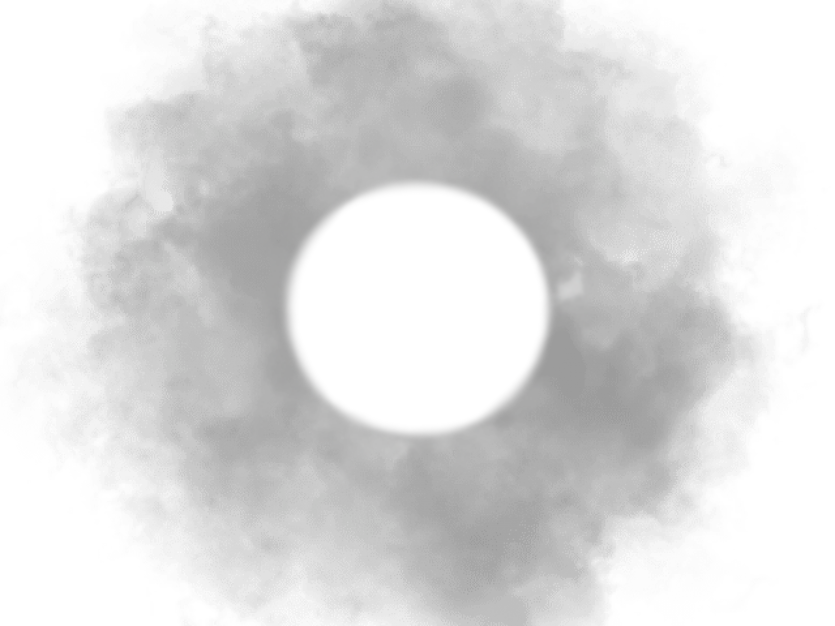
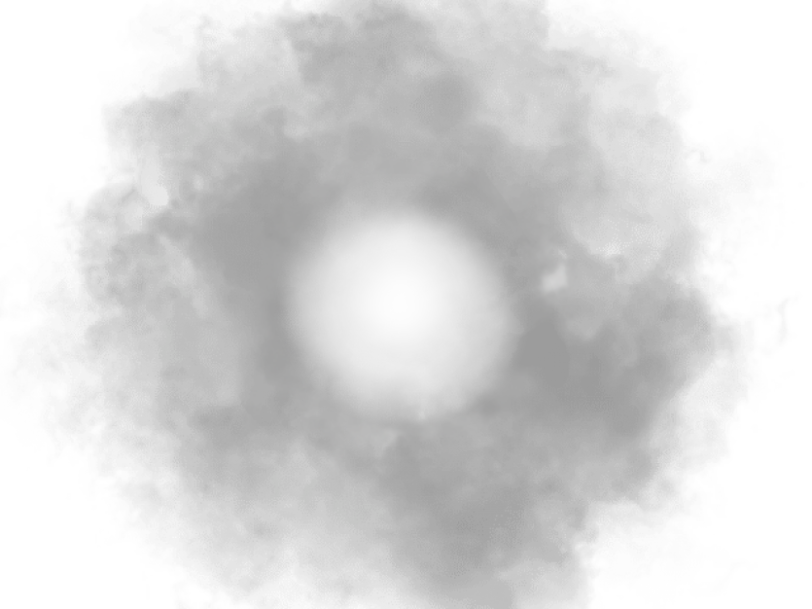
power ups done
shop title changed power ups fully functional

Changed region(s): [[0.3387, 0.2808, 0.6773, 0.7176]]

diff --git a/core/src/main/java/com/engteam14/yorkpirates/GameScreen.java b/core/src/main/java/com/engteam14/yorkpirates/GameScreen.java
@@ -39,6 +39,10 @@ public class GameScreen extends ScreenAdapter {
     public Array<College> colleges;
     public Array<Boat> boats;
     public Array<Projectile> projectiles;
+    // Power Ups
+    public Array<PowerUp> powerUps;
+    public Boolean immunity = false;
+    private float immunityTimer = 0f;
 
     // Sound
     public Music music;
@@ -115,6 +119,36 @@ public class GameScreen extends ScreenAdapter {
         followPos = new Vector3(player.x, player.y, 0f);
         game.camera.position.lerp(new Vector3(760, 510, 0f), 1f);
 
+        // Initialise Power Ups
+        powerUps = new Array<>();
+        PowerUp newPowerUp;
+        Array<Texture> powerUpSprites = new Array<>();
+
+        // Add damage boost
+        powerUpSprites.add(new Texture("damageBoost.png"));
+        newPowerUp = new PowerUp(powerUpSprites, 1, 1500, 700, 20 , 32, enemyTeam, "DamageBoost");
+        powerUps.add(newPowerUp);
+        powerUpSprites.clear();
+        // Add Max Health
+        powerUpSprites.add(new Texture("maxHealthUp.png"));
+        newPowerUp = new PowerUp(powerUpSprites, 1, 300, 1000, 20 , 32, enemyTeam, "MaxHealth");
+        powerUps.add(newPowerUp);
+        powerUpSprites.clear();
+        // Add Immunity
+        powerUpSprites.add(new Texture("immunity.png"));
+        newPowerUp = new PowerUp(powerUpSprites, 1, 900, 1500, 20 , 32, enemyTeam, "Immunity");
+        powerUps.add(newPowerUp);
+        powerUpSprites.clear();
+        // Add Heal
+        powerUpSprites.add(new Texture("currentHealthUp.png"));
+        newPowerUp = new PowerUp(powerUpSprites, 1, 1000, 2000, 20 , 32, enemyTeam, "Heal");
+        powerUps.add(newPowerUp);
+        powerUpSprites.clear();
+        // Add Speed
+        powerUpSprites.add(new Texture("speed.png"));
+        newPowerUp = new PowerUp(powerUpSprites, 1, 600, 750, 20 , 32, enemyTeam, "SpeedBoost");
+        powerUps.add(newPowerUp);
+        powerUpSprites.clear();
 
 
         // Initialise tilemap
@@ -189,7 +223,7 @@ public class GameScreen extends ScreenAdapter {
         projectiles = new Array<>();
 
         // Load the fog texture
-        fog = new Sprite(new Texture(Gdx.files.internal("fog.png")));
+        fog = new Sprite(new Texture(Gdx.files.internal("fog(1).png")));
         
         startTimeStamp = Instant.now().getEpochSecond();
 
@@ -251,6 +285,27 @@ public class GameScreen extends ScreenAdapter {
           }
           else{assert true;}
         }
+        // Draw PowerUps
+        for(int i = 0; i<powerUps.size; i++){
+            if(powerUps.get(i).collides(game.batch, player)==false){
+                powerUps.get(i).draw(game.batch, 0);
+            }
+            else{
+                if(powerUps.get(i).power == "DamageBoost"){player.addDamage();}
+                else if(powerUps.get(i).power == "MaxHealth"){player.addHealth();}
+                else if(powerUps.get(i).power == "Heal"){player.heal(75);}
+                else if(powerUps.get(i).power == "SpeedBoost"){player.addSpeed();}
+                else if(powerUps.get(i).power == "Immunity"){immunity = true;}
+                powerUps.removeIndex(i);
+            }
+        }
+        if(immunity == true && immunityTimer ==0){
+            immunityTimer = Instant.now().getEpochSecond();
+        }
+        else if(immunity == true && Instant.now().getEpochSecond()-immunityTimer >25){
+            immunity = false;
+        }
+        else{assert true;}
         fog.setX(player.x-(fog.getWidth()/2));
         fog.setY(player.y-(fog.getHeight()/2));
 
@@ -259,7 +314,7 @@ public class GameScreen extends ScreenAdapter {
         }
         else{assert true;}
 
-        if(Instant.now().getEpochSecond() - startTimeStamp > 10){
+        if(Instant.now().getEpochSecond() - startTimeStamp > 10 && difficulty>1){
             fog.draw(game.batch, 1f);
             if(counterStarted==false){
                 fogCounter = Instant.now().getEpochSecond();

diff --git a/core/src/main/java/com/engteam14/yorkpirates/Player.java b/core/src/main/java/com/engteam14/yorkpirates/Player.java
@@ -13,8 +13,8 @@ public class Player extends GameObject {
 
     // Player constants
     private static final int POINT_FREQUENCY = 1000; // How often the player gains points by moving.
-    private static final float CAMERA_SLACK = 0.1f; // What percentage of the screen the player can move in before the camera follows.
-    private static final float SPEED =70f; // Player movement speed.
+    private static final float CAMERA_SLACK = 0.01f; // What percentage of the screen the player can move in before the camera follows.
+    private static float SPEED =70f; // Player movement speed.
     private static int HEALTH = 200;
     private static float damage = 50f;
 
@@ -139,16 +139,21 @@ public class Player extends GameObject {
      */
     @Override
     public void takeDamage(GameScreen screen, float damage, String projectileTeam){
-        timeLastHit = TimeUtils.millis();
-        currentHealth -= damage;
-        doBloodSplash = true;
+        if(screen.immunity == true){
+            assert true;
+        }
+        else{
+            timeLastHit = TimeUtils.millis();
+            currentHealth -= damage;
+            doBloodSplash = true;
 
-        // Health-bar reduction
-        if(currentHealth > 0){
-            playerHealth.resize(currentHealth);
-        }else{
-            playerHealth = null;
-            screen.gameEnd(false);
+            // Health-bar reduction
+            if(currentHealth > 0){
+                playerHealth.resize(currentHealth);
+            }else{
+                playerHealth = null;
+                screen.gameEnd(false);
+            }
         }
     }
 
@@ -196,6 +201,13 @@ public class Player extends GameObject {
         setMaxHealth(HEALTH+50);
         currentHealth += 50;
     }
+    /** Heals the player */
+    public void heal(int amount){
+        if(currentHealth+amount < maxHealth){
+        currentHealth += amount;
+        }
+        else{currentHealth = maxHealth;}
+    }
 
     /** Returns the damage the a player generated projectile does*/
     public float getPlayerDamage(){
@@ -209,6 +221,11 @@ public class Player extends GameObject {
     public void setHealth(int amount){
         setMaxHealth(amount);
         currentHealth = amount;
+    }
+
+    //** Adds to the speed of the player */
+    public void addSpeed(){
+        SPEED += 40f;
     }
     public void setDamage(int amount){
         damage = amount;

diff --git a/core/src/main/java/com/engteam14/yorkpirates/PowerUp.java b/core/src/main/java/com/engteam14/yorkpirates/PowerUp.java
@@ -1,0 +1,45 @@
+package com.engteam14.yorkpirates;
+
+import com.badlogic.gdx.graphics.Texture;
+import com.badlogic.gdx.graphics.g2d.SpriteBatch;
+import com.badlogic.gdx.utils.Array;
+
+
+public class PowerUp extends GameObject {
+
+    private Player player;
+    public Array<Texture> frame;
+    public Boolean collision = false;
+    public String power;
+
+    public PowerUp(Array<Texture> frames, float fps, float x, float y, float width, float height, String team, String power) {
+        super(frames, fps, x, y, width, height, team);
+        //Max Health Up
+        //Heal (Current Health Up)
+        //Damage Boost
+        //Speed Boost
+        //Fire Rate Up
+        this.power = power;
+        frame = new Array<>();
+        for(int i = 0; i < frames.size; i++) {
+            frame.add(frames.get(i));
+        }
+        
+
+    }
+
+    @Override
+    public void draw(SpriteBatch batch, float elapsedTime){
+        batch.draw(frame.get(0), this.x, this.y, this.width, this.height);
+    }
+    public Boolean collides(SpriteBatch batch, Player player){
+        if(overlaps(player.hitBox)){
+            return true;
+        }
+        else{return false;}
+
+    }
+    public Boolean getCollision(){
+        return collision;
+    }
+}

diff --git a/core/src/main/java/com/engteam14/yorkpirates/ShopScreen.java b/core/src/main/java/com/engteam14/yorkpirates/ShopScreen.java
@@ -28,7 +28,7 @@ public class ShopScreen extends ScreenAdapter {
 
         //Generate Title 
         String imageN;
-        imageN="paused.png";
+        imageN="shop_title.png";
         Texture titleT = new Texture(Gdx.files.internal(imageN));
         Image title = new Image(titleT);
         // Generate skin
